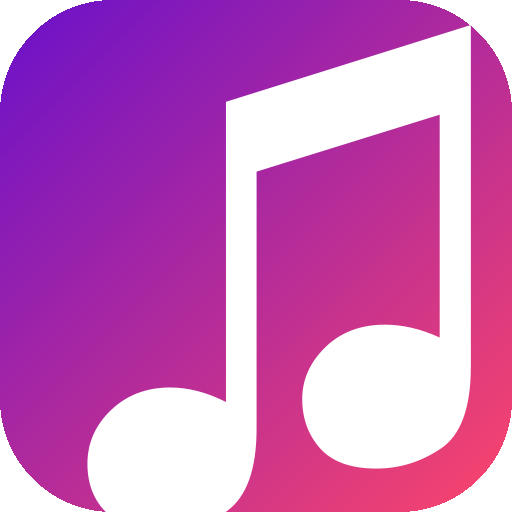
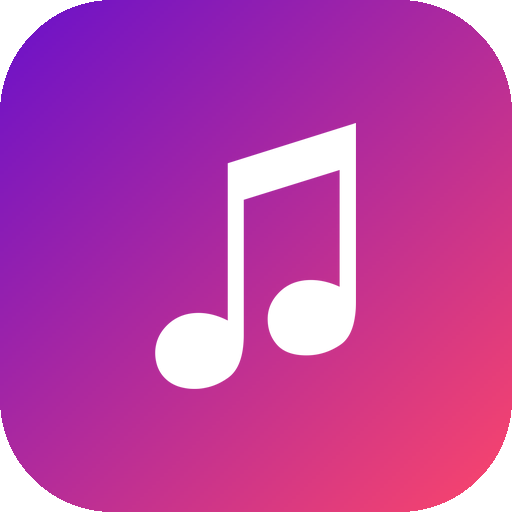
图标调整：音符缩小至高度50%留呼吸空间，按字形ink中心精确对齐（左右对称偏差≤1px）

diff --git a/gen_icons.py b/gen_icons.py
@@ -1,11 +1,11 @@
 #!/usr/bin/env python3
-"""生成 PWA/APP 图标：紫粉渐变背景 + 系统字体渲染的白色音符 ♪（居中对称）"""
+"""生成 PWA/APP 图标：紫粉渐变背景 + 白色双音符 ♫（按字形精确居中、左右对称）"""
 from PIL import Image, ImageDraw, ImageFont
 import os
 
 BASE = os.path.dirname(os.path.abspath(__file__))
 FONT_PATH = '/System/Library/Fonts/STHeiti Medium.ttc'
-NOTE = '\u266B'  # ♫ 双八分音符（左右更对称）
+NOTE = '\u266B'  # ♫ 双八分音符
 
 def gradient_bg(size):
     """对角渐变背景（紫 -> 粉），逐行插值"""
@@ -25,17 +25,35 @@ def gradient_bg(size):
                     px[x + dx, y] = (r, g, b)
     return img
 
-def make_icon(size, note_scale=0.62):
-    """渐变背景 + 居中白色音符 + 圆角"""
-    img = gradient_bg(size).convert('RGBA')
-    draw = ImageDraw.Draw(img)
-
-    # 字体渲染音符，anchor='mm' 精确居中
-    font_size = int(size * 1.05)
+def render_note(font_size):
+    """高分辨率渲染音符，裁剪出实际字形（ink bbox）"""
     font = ImageFont.truetype(FONT_PATH, font_size)
-    draw.text((size / 2, size / 2 + size * 0.02), NOTE,
-              font=font, fill=(255, 255, 255, 255), anchor='mm')
+    tmp = Image.new('RGBA', (font_size * 2, font_size * 2), (0, 0, 0, 0))
+    d = ImageDraw.Draw(tmp)
+    d.text((font_size, font_size), NOTE, font=font, fill=(255, 255, 255, 255), anchor='mm')
+    bbox = tmp.getbbox()
+    if not bbox:
+        raise RuntimeError('音符字形渲染失败')
+    return tmp.crop(bbox)
 
+def paste_note_centered(img, size, note_h_ratio):
+    """音符按目标高度等比缩放后，以字形中心精确对齐图标中心（左右对称）"""
+    # 用 4x 目标高度渲染，缩小后边缘更平滑
+    render_h = int(size * note_h_ratio) * 4
+    note = render_note(max(render_h, 200))
+    target_h = int(size * note_h_ratio)
+    target_w = max(1, int(note.width * target_h / note.height))
+    note = note.resize((target_w, target_h), Image.LANCZOS)
+    # 字形中心 = 图标中心
+    x = (size - target_w) // 2
+    y = (size - target_h) // 2
+    img.alpha_composite(note, (x, y))
+    return img
+
+def make_icon(size, note_h_ratio=0.52):
+    """渐变背景 + 居中白色音符（高度占 52%，留呼吸空间）+ 圆角"""
+    img = gradient_bg(size).convert('RGBA')
+    paste_note_centered(img, size, note_h_ratio)
     # 圆角蒙版
     mask = Image.new('L', (size, size), 0)
     mdraw = ImageDraw.Draw(mask)
@@ -45,14 +63,10 @@ def make_icon(size, note_scale=0.62):
     final.paste(img, (0, 0), mask)
     return final
 
-def make_maskable(size):
-    """maskable 图标：全幅渐变背景 + 音符缩小到 ~70% 居中（留 safe area）"""
+def make_maskable(size, note_h_ratio=0.38):
+    """maskable 图标：全幅渐变背景 + 音符高 38%（留足 safe area）"""
     bg = gradient_bg(size).convert('RGBA')
-    draw = ImageDraw.Draw(bg)
-    font_size = int(size * 0.75)
-    font = ImageFont.truetype(FONT_PATH, font_size)
-    draw.text((size / 2, size / 2 + size * 0.015), NOTE,
-              font=font, fill=(255, 255, 255, 255), anchor='mm')
+    paste_note_centered(bg, size, note_h_ratio)
     return bg
 
 sizes = {
